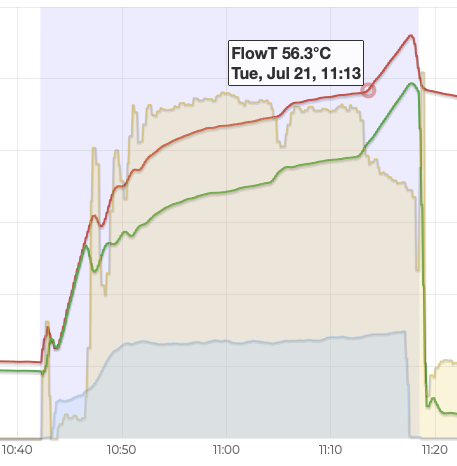
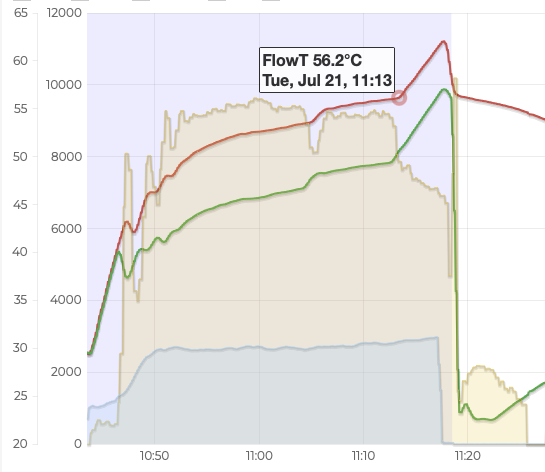
wip draft

diff --git a/_drafts/heat-geek-nanostore-summer-time.md b/_drafts/heat-geek-nanostore-summer-time.md
@@ -6,10 +6,21 @@ tags: gear home-assistant
 
 wise words
 
+# Temperature Sensor
+
+* [Last time]({% link _posts/2026-04-07-heat-geek-nano-store-dhw-update.md %}) left you with a cliff hanger. Had found that the tank temperature sensor was providing erratic values.
+* Was replaced May 15th. I also got them to move the sensor up near the middle of the tank. Previous position at the bottom near cold water inlet was meant to respond quickly when hot water drawn off to start the heat pump. Never responded quickly enough for the heat pump to ramp up in time before the stored hot water ran out. At the same time, had the downside in winter that it would report values lower than 10°C triggering the heat pump to run a frost protection cycle, while the top of the store still had plenty of hot water!
+* We boost the hot water before a shower, so makes more sense to put the sensor where it will more accurately report remaining hot water temperature.
+
+{% include candid-image.html src="/assets/images/home-assistant/dhw-temp-sep-3.png" alt="DHW run flow and tank temperatures, September 2nd" %}
+
+* Sensible looking tank temperature curve (in orange, Vaillant cloud only updates values every 5 minutes). Once DHW run ends (flow temperature shown in blue), temperature equalizes and then stays stable, declining gently.
+* Still use Home Assistant to stop DHW run when flow temperature hits 65°C. Prevents temperature ramping up too high if the sensor goes on the blink again in future.
+
 # DHW
 
+* What's the effect of summer temperatures on DHW runs?
 * May 16 after temperature sensor sorted
-* Still using HA automation to stop run when return temperature of 65C hit
 * Added 1.772kWh heat, using 1.019kWh electric for COP of 1.74
 * Heating on, hot water in pipes at end of run dumped into heating circuit
 * Big spike at end means detail during DWH run is squashed down on graph
@@ -27,7 +38,15 @@ wise words
 
 # Shower
 
-* July 21, 20C outside, long shower
+* As a reminder, here's what happens when showering in winter.
+
+{% include candid-image.html src="/assets/images/home-assistant/back-to-back-boost-shower.png" alt="Back to back Boost Showers" %}
+
+* This is two back to back showers. It takes about 10 minutes after pressing boost for flow temperature to hit 55°C. If you run the shower at its full 8L/min flow rate, you take heat out of the store faster than the heat pump can replenish. The flow rate drops rapidly. After 8 minutes of showering you'll notice the water temperature at the shower head start to drop. 
+* When the first shower ends it takes five minutes to get back up to temperature for the next shower.
+
+* July 21, 20C outside, 25 minute shower
+* What a contrast. The flow temperature keeps going up. The heat pump is providing more heat than needed. You can shower indefinitely with full flow.
 
 {% include candid-image.html src="/assets/images/home-assistant/shower-july-21.png" alt="Shower July 21" %}
 
